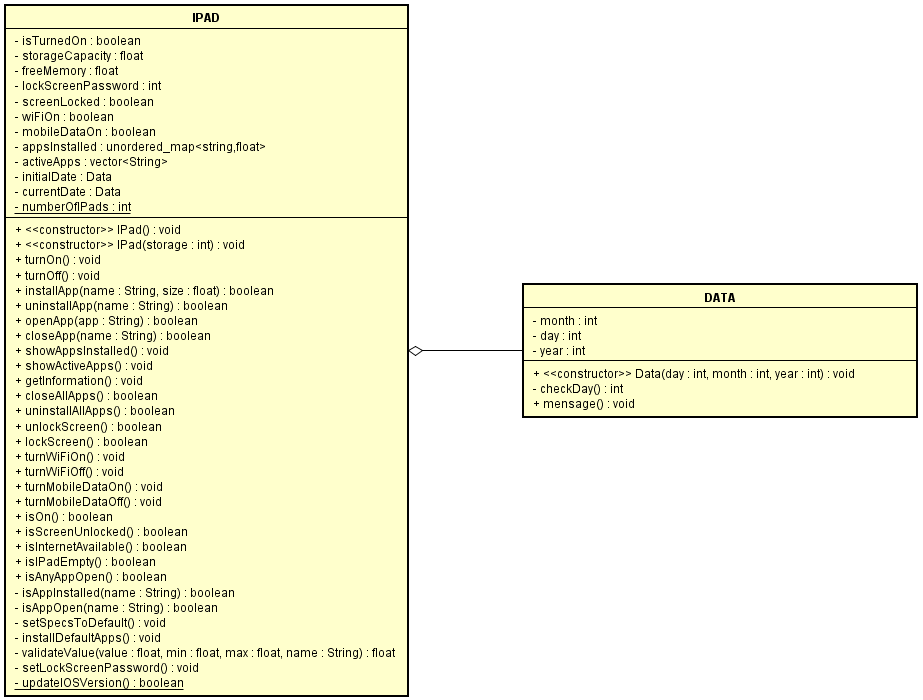
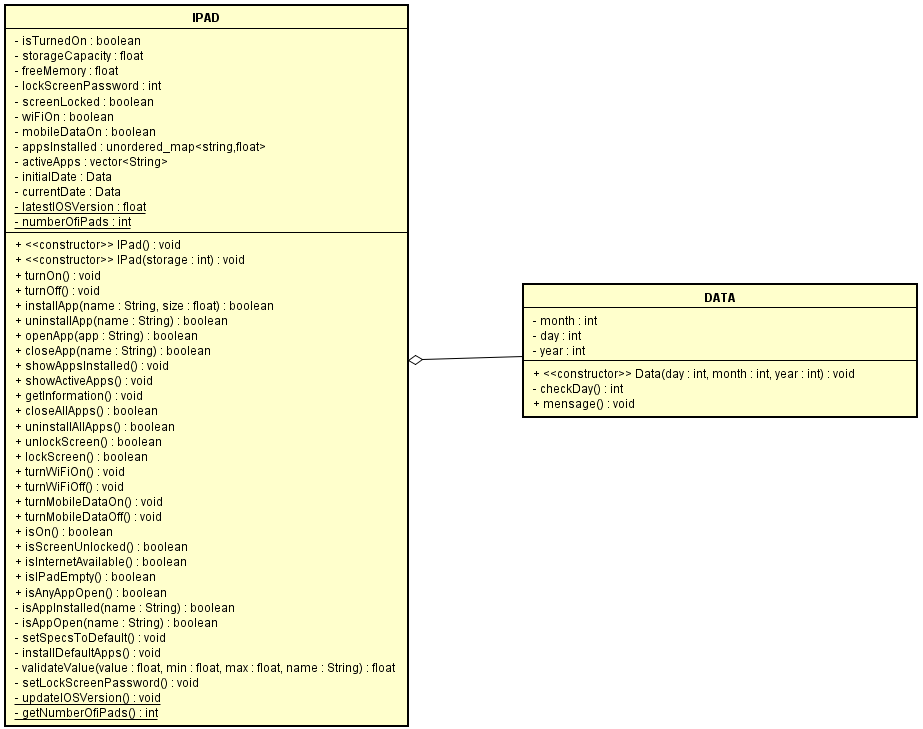
Projeto Atualizado

Changed region(s): [[0.0, 0.0, 0.455, 1.0], [0.4247, 0.39, 1.0, 0.6]]

diff --git a/iPad/IPad.cpp b/iPad/IPad.cpp
@@ -1,6 +1,9 @@
 # include "IPad.h"
 # include <iostream>
 
+float IPad::latestIOSVersion = 9;
+int IPad::numberOfiPads = 0;
+
 IPad::IPad()
 {
     cout << ".:. iPad Creation .:.\n";
@@ -10,6 +13,8 @@ IPad::IPad()
     installDefaultApps();
     
     setLockScreenPassword();
+    
+    numberOfiPads++;
 }
 
 IPad::IPad(int storage)
@@ -23,6 +28,8 @@ IPad::IPad(int storage)
     installDefaultApps();
     
     setLockScreenPassword();
+    
+    numberOfiPads++;
 }
 
 IPad::~IPad()
@@ -160,7 +167,7 @@ bool IPad::closeApp(const string &name)
     }
 }
 
-void IPad::showAppsInstalled()
+void IPad::showAppsInstalled() const
 {
     // Check to see if the iPad isn't empty.
     if (not appsInstalled.empty())
@@ -179,7 +186,7 @@ void IPad::showAppsInstalled()
     }
 }
 
-void IPad::showActiveApps()
+void IPad::showActiveApps() const
 {
     // Check to see if there is any active app.
     if (not activeApps.empty())
@@ -195,11 +202,12 @@ void IPad::showActiveApps()
     }
 }
 
-void IPad::getInformation()
+void IPad::getInformation() const
 {
     cout << "\n\n.: iPad Specs :.\n";
     cout << "\n>> STORAGE CAPACITY = " << storageCapacity << "GB";
     cout << "\n>> FREE MEMORY = " << freeMemory << "GB";
+    cout << "\n>> iOS VERSION = " << latestIOSVersion;
     cout << "\n>> NUM OF APPS INSTALLED = " << appsInstalled.size();
     cout << "\n>> NUM OF ACTIVE APPS = " << activeApps.size();
     cout << "\n\n";
@@ -351,12 +359,12 @@ void IPad::turnMobileDataOff()
 
 /* HELPERS */
 
-bool IPad::isOn()
+bool IPad::isOn() const
 {
     return isTurnedOn;
 }
 
-bool IPad::isAppInstalled(const string &name)
+bool IPad::isAppInstalled(const string &name) const
 {
     // Find the app in the unordered map appsInstalled.
     auto lookup = appsInstalled.find(name);
@@ -371,7 +379,7 @@ bool IPad::isAppInstalled(const string &name)
     return false;
 }
 
-bool IPad::isAppOpen(const string &name)
+bool IPad::isAppOpen(const string &name) const
 {
     for (string nameOfApp : activeApps)
     {
@@ -384,12 +392,12 @@ bool IPad::isAppOpen(const string &name)
     return false;
 }
 
-bool IPad::isIPadEmpty()
+bool IPad::isIPadEmpty() const
 {
     return appsInstalled.empty();
 }
 
-bool IPad::isAnyAppOpen()
+bool IPad::isAnyAppOpen() const
 {
     return not activeApps.empty();
 }
@@ -424,7 +432,7 @@ void IPad::installDefaultApps()
     freeMemory -= 100/1000.0;
 }
 
-float IPad::validateValue(float value, float min, float max, const string &name)
+float IPad::validateValue(float value, float min, float max, const string &name) const
 {
     while (true)
     {
@@ -460,13 +468,22 @@ void IPad::setLockScreenPassword()
     }
 }
 
-bool IPad::isScreenUnlocked()
+bool IPad::isScreenUnlocked() const
 {
     return not screenLocked;
 }
 
-bool IPad::isInternetAvailable()
+bool IPad::isInternetAvailable() const
 {
     return wiFiOn || mobileDataOn;
 }
 
+int IPad::getNumberOfiPads()
+{
+    return numberOfiPads;
+}
+
+void IPad::updateIOSVersion()
+{
+    latestIOSVersion += 0.1;
+}

diff --git a/iPad/IPad.h b/iPad/IPad.h
@@ -54,12 +54,12 @@ public:
     /**
         Prints a list of the apps installed in the iPad.
     */
-    void showAppsInstalled();
+    void showAppsInstalled() const;
     
     /**
         Prints a list of the apps open in the iPad.
     */
-    void showActiveApps();
+    void showActiveApps() const;
     
     /**
         Prints to the screen information about the iPad, including:
@@ -69,7 +69,7 @@ public:
          * num of apps installed
          * num of apps open
     */
-    void getInformation();
+    void getInformation() const;
 
     /**
         Closes all active apps.
@@ -105,11 +105,14 @@ public:
      * The following functions were designed to help the main functions perfomr
      */
      
-    bool isOn();
-    bool isScreenUnlocked();
-    bool isInternetAvailable();
-    bool isIPadEmpty();
-    bool isAnyAppOpen();
+    bool isOn() const;
+    bool isScreenUnlocked() const;
+    bool isInternetAvailable() const;
+    bool isIPadEmpty() const;
+    bool isAnyAppOpen() const;
+    
+    static void updateIOSVersion();
+    static int getNumberOfiPads();
     
 private:
     bool isTurnedOn;
@@ -121,13 +124,15 @@ private:
     bool mobileDataOn;
     unordered_map<string, float> appsInstalled;
     vector<string> activeApps;
+    static float latestIOSVersion;
+    static int numberOfiPads;
     
     /** HELPER FUNCTIONS
      * 
      * The following functions were designed to help the main functions perfomr
      */
-    bool isAppInstalled(const string &);
-    bool isAppOpen(const string &);
+    bool isAppInstalled(const string &) const;
+    bool isAppOpen(const string &) const;
     void setSpecsToDefault();
     void installDefaultApps();
     
@@ -140,7 +145,7 @@ private:
                name: String to help identify which attribute is being validated.
         @return float value already validated acording to the max and min limits provided in the arguments.
     */
-    float validateValue(float, float, float, const string &);
+    float validateValue(float, float, float, const string &) const;
     void setLockScreenPassword();
     
 

diff --git a/iPad/main.cpp b/iPad/main.cpp
@@ -14,9 +14,11 @@ int main(int argc, char **argv)
 {
     cout << "\n";
     
-    IPad myiPad(64);
+    IPad myiPad, ale, alsis;
     
     menu(myiPad);
+    
+    cout << IPad::getNumberOfiPads();
     
     return 0;
 }
